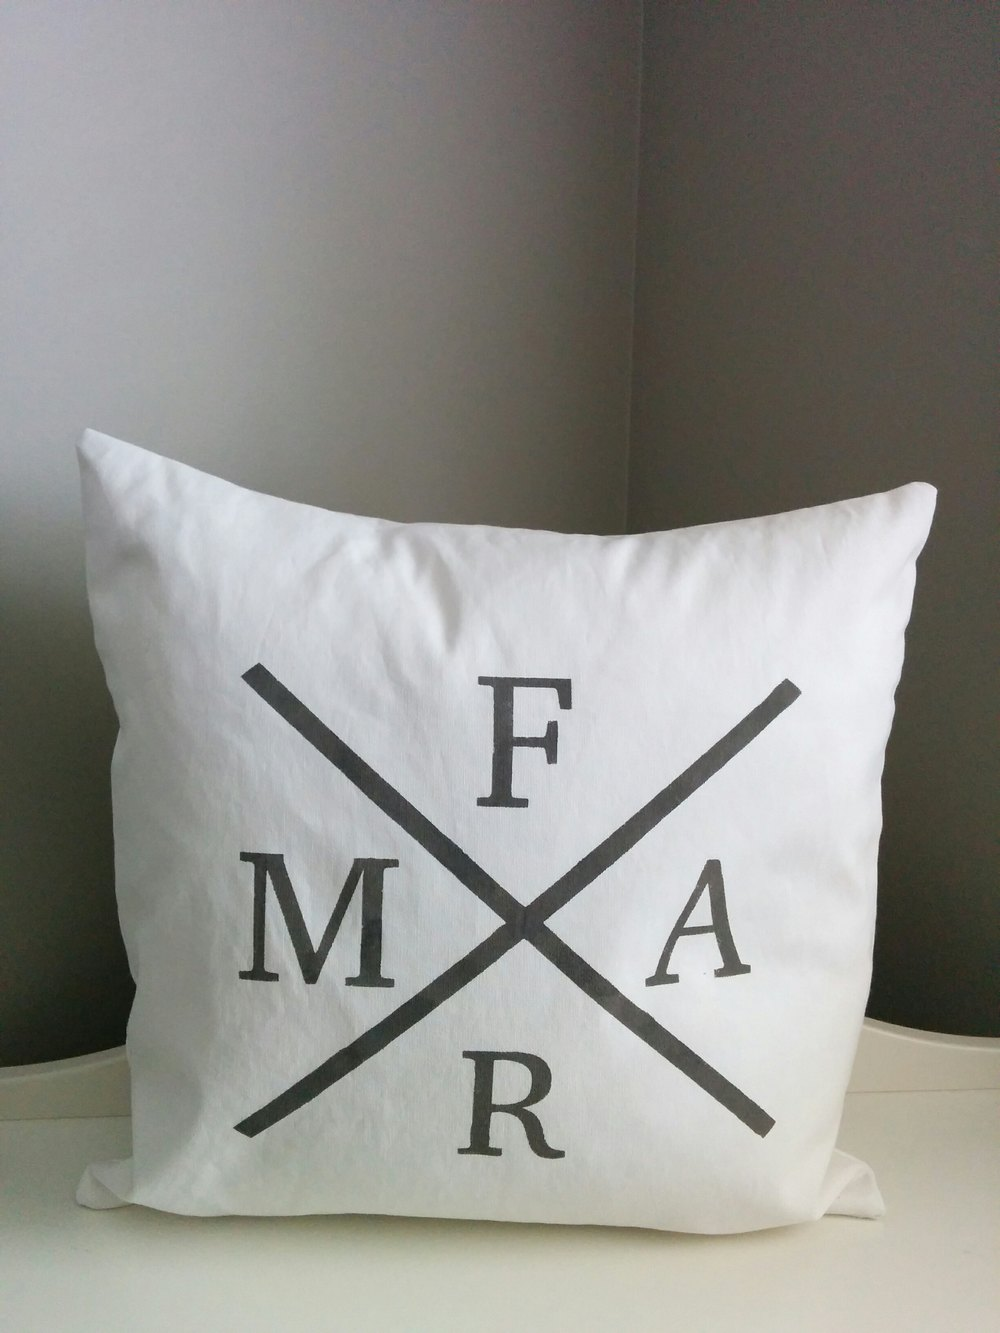
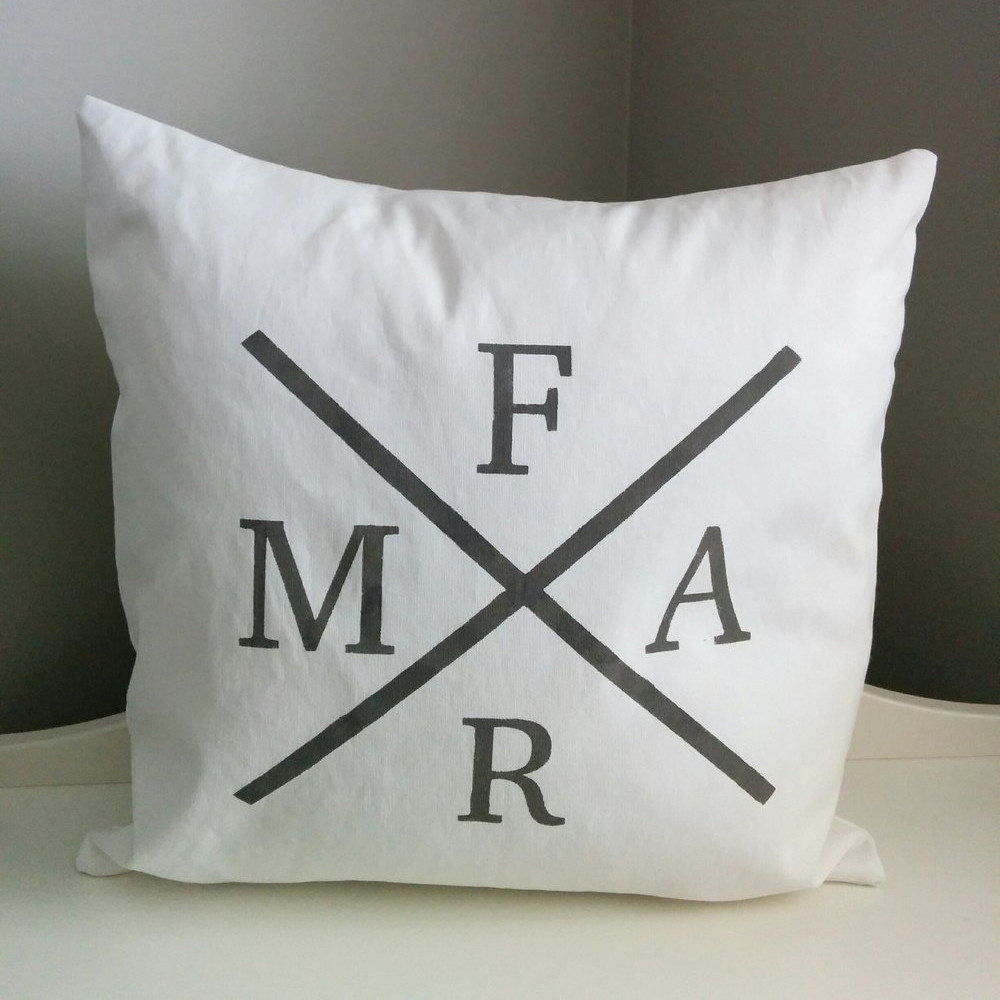
Set new font

diff --git a/public/assets/style.css b/public/assets/style.css
@@ -1,7 +1,7 @@
 @import url(bootstrap/css/bootstrap.min.css);
 @import url(font-awesome/css/font-awesome.min.css);
 /*Google fonts*/
-@import url('https://fonts.googleapis.com/css?family=Faster+One');
+@import url('https://fonts.googleapis.com/css?family=Arapey');
 
 :focus {
   outline-style: none;
@@ -129,7 +129,7 @@ select.form-control {
 
 .main-page-link {
   font-size: 2em;
-  font-family: 'Faster One', 'Times New Roman', sans-serif;
+  font-family: 'Arapey', serif;
 }
 
 .shipping-info,
